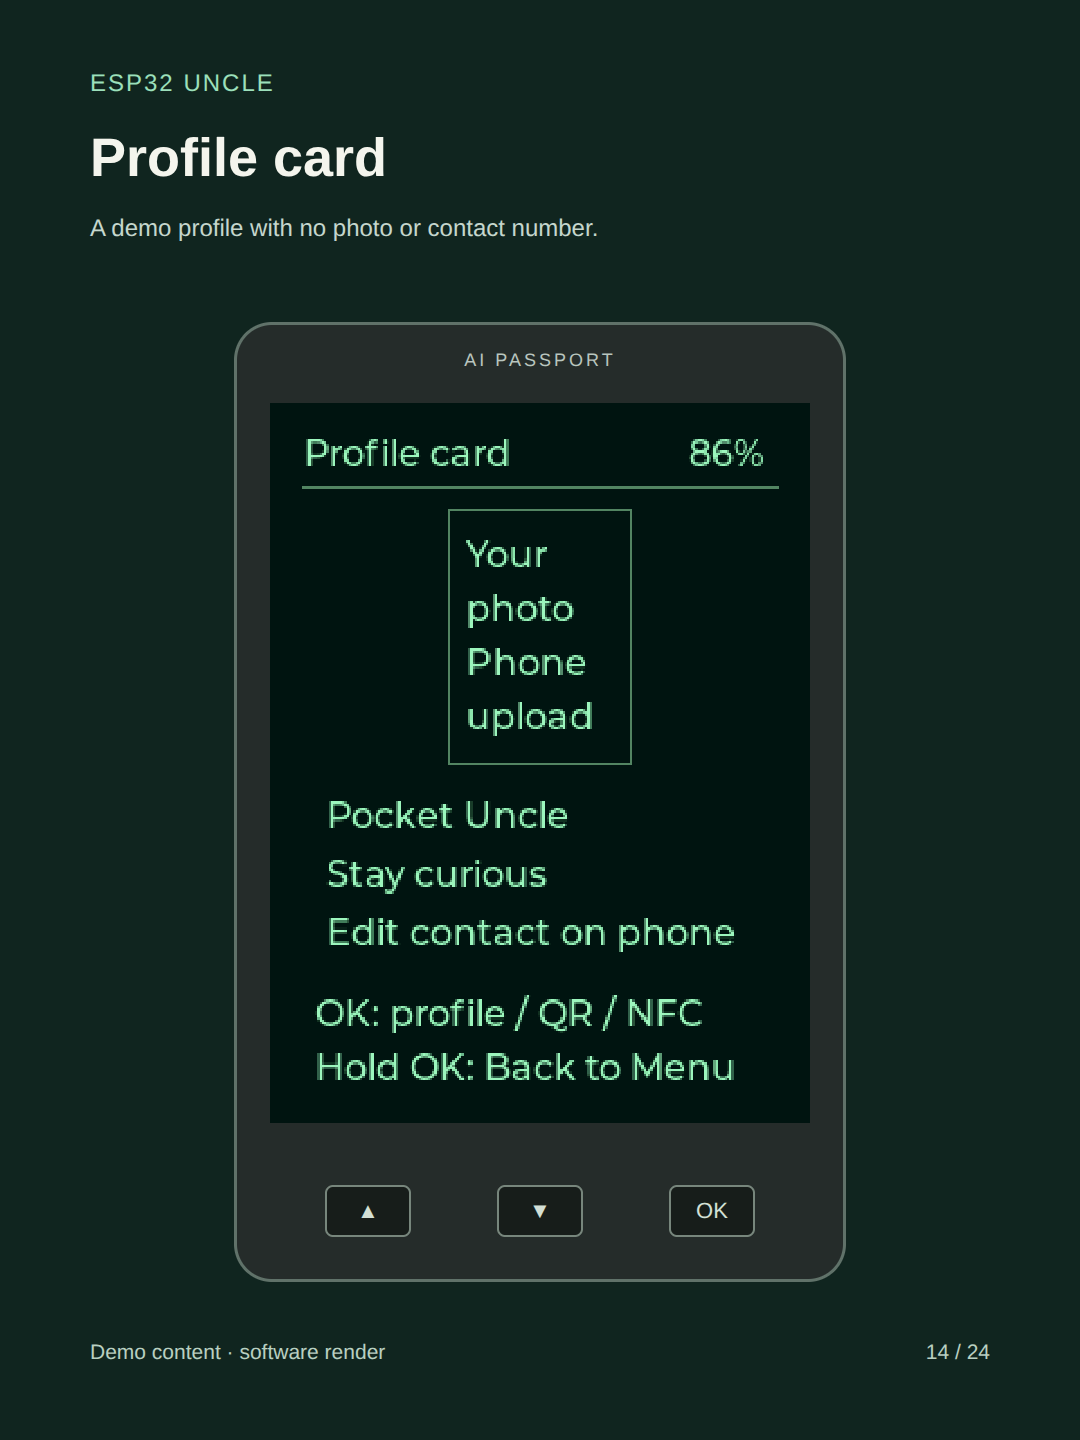
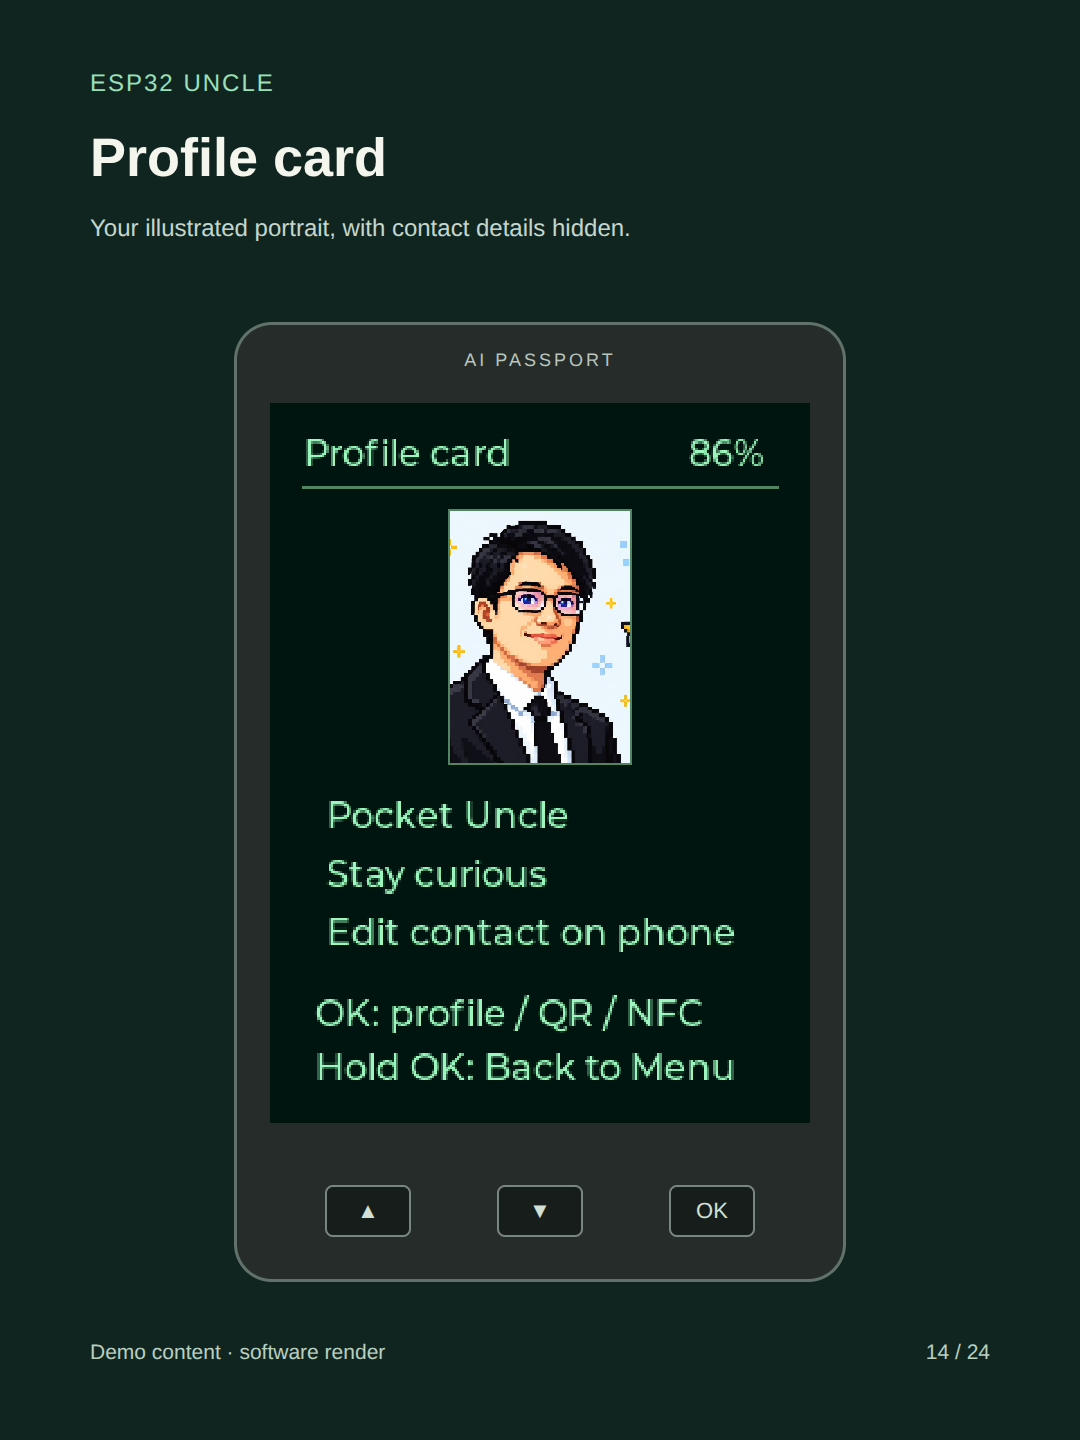
feat(gallery): publish scrollbar and profile portrait

Changed region(s): [[0.3972, 0.3438, 0.5806, 0.5312], [0.0917, 0.1562, 0.5806, 0.1875]]

diff --git a/assets/gallery/gallery.js b/assets/gallery/gallery.js
@@ -1,12 +1,13 @@
 'use strict';
 const el=id=>document.getElementById(id),rail=el('rail'),language=el('language');
-const copy={en:{title:'Pocket Uncle · Screen gallery',language_label:'Language',heading:'Explore Pocket Uncle.',intro:'Start with the original cover. Swipe left to explore every screen.',help:'Swipe left, drag, or use the arrow buttons. Select an image to enlarge it.',privacy:'Demo content with the owner-authorized illustrated portrait on Home. Phone numbers, private contact QRs, device identifiers and AI account details are excluded. The LinkedIn QR opens the owner’s public profile.',accuracy:'Software-rendered screens, framed with HyperFrames. Traffic Light views illustrate the app on main; navigation, music and books are on the feature branch. These are not photographs or live service readings.',source_link:'View the gallery source',close:'Close',cover:'Original cover',previous:'Previous image',next:'Next image',rail:'Swipe left for more images',gallery:'Passport screen gallery',enlarge:'Enlarge',english:'English',chinese:'Chinese'},zh:{title:'口袋阿叔 · 屏幕画廊',language_label:'语言',heading:'看看口袋阿叔。',intro:'从原来的封面开始，向左滑动查看每个屏幕。',help:'向左滑动、拖动或使用箭头按钮。点击图片可放大查看。',privacy:'展示演示内容及经所有者授权的首页插画头像，不含联系电话、私人联系二维码、设备标识或人工智能账号详情。领英二维码打开所有者的公开主页。',accuracy:'屏幕通过软件渲染，再使用 HyperFrames 制作图片。交通灯画面展示主分支应用；导航、音乐和图书位于功能分支。这些图片并非设备实拍或实时服务数据。',source_link:'查看画廊源文件',close:'关闭',cover:'原封面',previous:'上一张',next:'下一张',rail:'向左滑动查看更多图片',gallery:'随身护照屏幕画廊',enlarge:'放大',english:'英文',chinese:'中文'}};
+const copy={en:{title:'Pocket Uncle · Screen gallery',language_label:'Language',heading:'Explore Pocket Uncle.',intro:'Start with the original cover. Swipe left to explore every screen.',help:'Swipe left, drag, or use the arrow buttons. Select an image to enlarge it.',privacy:'Demo content with the owner-authorized illustrated portrait on Home and Profile. Phone numbers, private contact QRs, device identifiers and AI account details are excluded. The LinkedIn QR opens the owner’s public profile.',accuracy:'Software-rendered screens, framed with HyperFrames. Traffic Light views illustrate the app on main; navigation, music and books are on the feature branch. These are not photographs or live service readings.',source_link:'View the gallery source',close:'Close',cover:'Original cover',previous:'Previous image',next:'Next image',rail:'Swipe left for more images',gallery:'Passport screen gallery',enlarge:'Enlarge',english:'English',chinese:'Chinese'},zh:{title:'口袋阿叔 · 屏幕画廊',language_label:'语言',heading:'看看口袋阿叔。',intro:'从原来的封面开始，向左滑动查看每个屏幕。',help:'向左滑动、拖动或使用箭头按钮。点击图片可放大查看。',privacy:'展示演示内容及经所有者授权的首页及名片插画头像，不含联系电话、私人联系二维码、设备标识或人工智能账号详情。领英二维码打开所有者的公开主页。',accuracy:'屏幕通过软件渲染，再使用 HyperFrames 制作图片。交通灯画面展示主分支应用；导航、音乐和图书位于功能分支。这些图片并非设备实拍或实时服务数据。',source_link:'查看画廊源文件',close:'关闭',cover:'原封面',previous:'上一张',next:'下一张',rail:'向左滑动查看更多图片',gallery:'随身护照屏幕画廊',enlarge:'放大',english:'英文',chinese:'中文'}};
 let all=[],items=[],index=0,drag=null,moved=false;
 const requested=new URLSearchParams(location.search).get('lang');language.value=requested==='zh'||requested==='zh-CN'?'zh':requested==='en'?'en':navigator.language.toLowerCase().startsWith('zh')?'zh':'en';
-function update(){if(!rail.children.length)return;index=[...rail.children].reduce((best,child,i)=>Math.abs(child.offsetLeft-rail.scrollLeft)<Math.abs(rail.children[best].offsetLeft-rail.scrollLeft)?i:best,0);el('current').textContent=(index+1)+' / '+items.length+' · '+items[index].title;el('previous').disabled=index===0;el('next').disabled=index===items.length-1;}
+function update(){if(!rail.children.length)return;el('gallery_scroll').value=String(Math.round(1000*rail.scrollLeft/Math.max(1,rail.scrollWidth-rail.clientWidth)));index=[...rail.children].reduce((best,child,i)=>Math.abs(child.offsetLeft-rail.scrollLeft)<Math.abs(rail.children[best].offsetLeft-rail.scrollLeft)?i:best,0);el('current').textContent=(index+1)+' / '+items.length+' · '+items[index].title;el('previous').disabled=index===0;el('next').disabled=index===items.length-1;}
 function go(next){const figure=rail.children[Math.max(0,Math.min(items.length-1,next))];if(figure)rail.scrollTo({left:figure.offsetLeft,behavior:matchMedia('(prefers-reduced-motion: reduce)').matches?'instant':'smooth'});}
 function show(item){if(moved)return;el('large').src=item.src;el('large').alt=item.title;el('zoom').showModal();}
 function render(){
+ el('gallery_scroll').setAttribute('aria-label',language.value==='zh'?'滚动浏览图片':'Scroll through images');
  const c=copy[language.value],selected=items[index]?.id||'cover';document.documentElement.lang=language.value==='zh'?'zh-CN':'en';document.title=c.title;
  for(const id of ['language_label','heading','intro','help','privacy','accuracy','source_link','close'])el(id).textContent=c[id];
  language.options[0].textContent=c.english;language.options[1].textContent=c.chinese;
@@ -16,6 +17,7 @@ function render(){
  index=Math.max(0,items.findIndex(item=>item.id===selected));rail.scrollTo({left:rail.children[index].offsetLeft,behavior:'instant'});update();
  const url=new URL(location.href);url.searchParams.set('lang',language.value);history.replaceState(null,'',url);
 }
+el('gallery_scroll').oninput=event=>rail.scrollTo({left:Number(event.target.value)/1000*(rail.scrollWidth-rail.clientWidth),behavior:'instant'});
 el('previous').onclick=()=>go(index-1);el('next').onclick=()=>go(index+1);language.onchange=render;
 rail.addEventListener('scroll',update,{passive:true});rail.addEventListener('keydown',event=>{if(['ArrowLeft','ArrowRight','Home','End'].includes(event.key)){event.preventDefault();go(event.key==='Home'?0:event.key==='End'?items.length-1:index+(event.key==='ArrowRight'?1:-1))}});
 rail.addEventListener('pointerdown',event=>{moved=false;if(event.pointerType!=='mouse'||event.button!==0)return;drag={x:event.clientX,left:rail.scrollLeft,id:event.pointerId};});

diff --git a/assets/gallery/gallery.css b/assets/gallery/gallery.css
@@ -1,1 +1,4 @@
 :root{font:16px/1.55 system-ui,sans-serif;color:#eef5ef;background:#10251f;color-scheme:dark;--muted:#b9cfc1;--accent:#9ce0bb;--line:#50695a}*{box-sizing:border-box}body{margin:0}header,main{max-width:1140px;margin:auto}header{padding:32px 28px;display:flex;justify-content:space-between;align-items:center;gap:20px;flex-wrap:wrap}a{color:var(--accent)}.wordmark{font-size:16px;font-weight:650;text-decoration:none;letter-spacing:.08em}select,button{font:inherit;border:1px solid var(--line);border-radius:6px;color:inherit;background:#1c352b;min-height:44px;padding:8px 14px}button{cursor:pointer}button:disabled{opacity:.4;cursor:default}button:hover:enabled{background:#294d3c}button:focus-visible,a:focus-visible,select:focus-visible,.rail:focus-visible{outline:3px solid var(--accent);outline-offset:4px}main{padding:12px 28px 56px}.intro{margin:18px 0 28px}h1{font-size:2rem;line-height:1.2;font-weight:600;margin:0 0 12px;max-width:22ch;text-wrap:balance}p{max-width:70ch}.intro p,#help,.notes{color:var(--muted)}.toolbar{display:flex;align-items:center;justify-content:space-between;gap:12px;min-height:62px}.toolbar p{margin:0;font-size:1.05rem}.toolbar>div{display:flex;gap:8px;flex-shrink:0}.toolbar button{width:48px;font-size:24px;line-height:1}.rail{--gap:24px;position:relative;display:flex;gap:var(--gap);overflow-x:auto;overscroll-behavior-x:contain;scroll-snap-type:x mandatory;scrollbar-color:var(--accent) #183127;scrollbar-width:thin;padding:8px 0 20px;cursor:grab}.rail.dragging{cursor:grabbing;scroll-snap-type:none;user-select:none}.rail::after{content:"";flex:0 0 max(0px,calc(100% - min(84vw,480px) - var(--gap)))}figure{flex:0 0 min(84vw,480px);width:min(84vw,480px);margin:0;scroll-snap-align:start}figure button{display:block;width:100%;height:auto;border:0;padding:0;background:transparent;border-radius:0;overflow:hidden}figure img{display:block;width:100%;height:auto;aspect-ratio:3/4;object-fit:cover;pointer-events:none}figcaption{padding:12px 0 0;font-size:1rem}.number{color:var(--muted);font-size:.85rem;padding-right:10px}#help{font-size:.9rem;margin:12px 0 32px}.notes{border-top:1px solid var(--line);padding-top:20px;font-size:.9rem}.notes p{margin:0 0 12px}dialog{background:#10251f;border:1px solid var(--line);padding:12px;max-width:96vw;max-height:96vh;width:fit-content}dialog::backdrop{background:rgba(0,0,0,.85)}dialog form{text-align:right;margin:0 0 10px}dialog img{display:block;width:auto;max-width:90vw;height:auto;max-height:82vh;object-fit:contain}@media(max-width:520px){header{padding:20px}main{padding:6px 20px 40px}h1{font-size:1.75rem}.rail{--gap:16px}.toolbar p{font-size:.95rem}.toolbar button{width:44px}header label{font-size:.9rem}}@media(prefers-reduced-motion:reduce){*{scroll-behavior:auto!important}}
+
+.gallery-scroll{display:block;width:100%;height:28px;margin:8px 0 0;accent-color:var(--accent);cursor:ew-resize;touch-action:pan-y}.gallery-scroll:focus-visible{outline:3px solid var(--accent);outline-offset:3px}
+.rail::-webkit-scrollbar{height:12px}.rail::-webkit-scrollbar-track{background:#183127}.rail::-webkit-scrollbar-thumb{background:#9ce0bb;border:2px solid #183127;border-radius:8px}

diff --git a/assets/gallery/index.html b/assets/gallery/index.html
@@ -8,9 +8,10 @@
 <section aria-label="Passport screen gallery" id="gallery">
 <div class="toolbar"><p id="current" role="status" aria-live="polite"></p><div><button id="previous" type="button" aria-label="Previous image">←</button><button id="next" type="button" aria-label="Next image">→</button></div></div>
 <div class="rail" id="rail" tabindex="0" aria-label="Swipe left for more images"></div>
+<input id="gallery_scroll" class="gallery-scroll" type="range" min="0" max="1000" value="0" step="1" aria-label="Scroll through images">
 <p id="help">Swipe left, drag, or use the arrow buttons. Select an image to enlarge it.</p>
 </section>
-<div class="notes"><p id="privacy">Demo content only. No personal photo, phone number, private contact QR, device identifier or AI account details. The LinkedIn QR opens the owner’s public profile.</p><p id="accuracy">Software-rendered screens, framed with HyperFrames. Traffic Light views illustrate the app on main; navigation, music and books are on the feature branch. These are not photographs or live service readings.</p><a id="source_link" href="https://github.com/benczb/esp32-uncle/tree/feature/navigation-spotify-books/assets/gallery">View the gallery source</a></div>
+<div class="notes"><p id="privacy">Demo content with the owner-authorized illustrated portrait on Home and Profile. Phone numbers, private contact QRs, device identifiers and AI account details are excluded. The LinkedIn QR opens the owner’s public profile.</p><p id="accuracy">Software-rendered screens, framed with HyperFrames. Traffic Light views illustrate the app on main; navigation, music and books are on the feature branch. These are not photographs or live service readings.</p><a id="source_link" href="https://github.com/benczb/esp32-uncle/tree/feature/navigation-spotify-books/assets/gallery">View the gallery source</a></div>
 </main>
 <dialog id="zoom"><form method="dialog"><button id="close" aria-label="Close full-size image">Close</button></form><img id="large" alt=""></dialog>
 <script src="gallery.js"></script>

diff --git a/index.html b/index.html
@@ -8,9 +8,10 @@
 <section aria-label="Passport screen gallery" id="gallery">
 <div class="toolbar"><p id="current" role="status" aria-live="polite"></p><div><button id="previous" type="button" aria-label="Previous image">←</button><button id="next" type="button" aria-label="Next image">→</button></div></div>
 <div class="rail" id="rail" tabindex="0" aria-label="Swipe left for more images"></div>
+<input id="gallery_scroll" class="gallery-scroll" type="range" min="0" max="1000" value="0" step="1" aria-label="Scroll through images">
 <p id="help">Swipe left, drag, or use the arrow buttons. Select an image to enlarge it.</p>
 </section>
-<div class="notes"><p id="privacy">Demo content only. No personal photo, phone number, private contact QR, device identifier or AI account details. The LinkedIn QR opens the owner’s public profile.</p><p id="accuracy">Software-rendered screens, framed with HyperFrames. Traffic Light views illustrate the app on main; navigation, music and books are on the feature branch. These are not photographs or live service readings.</p><a id="source_link" href="https://github.com/benczb/esp32-uncle/tree/feature/navigation-spotify-books/assets/gallery">View the gallery source</a></div>
+<div class="notes"><p id="privacy">Demo content with the owner-authorized illustrated portrait on Home and Profile. Phone numbers, private contact QRs, device identifiers and AI account details are excluded. The LinkedIn QR opens the owner’s public profile.</p><p id="accuracy">Software-rendered screens, framed with HyperFrames. Traffic Light views illustrate the app on main; navigation, music and books are on the feature branch. These are not photographs or live service readings.</p><a id="source_link" href="https://github.com/benczb/esp32-uncle/tree/feature/navigation-spotify-books/assets/gallery">View the gallery source</a></div>
 </main>
 <dialog id="zoom"><form method="dialog"><button id="close" aria-label="Close full-size image">Close</button></form><img id="large" alt=""></dialog>
 <script src="gallery.js"></script>
